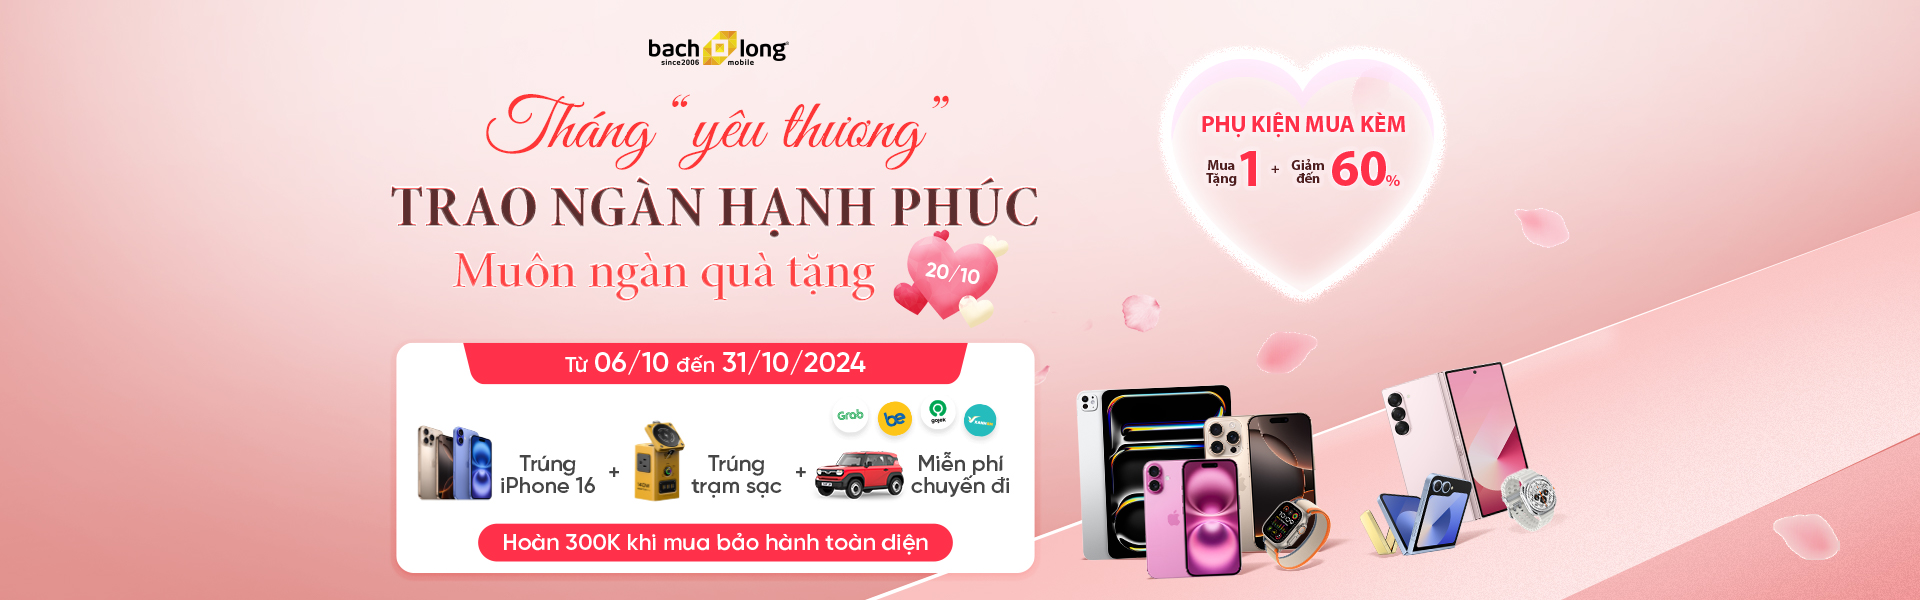
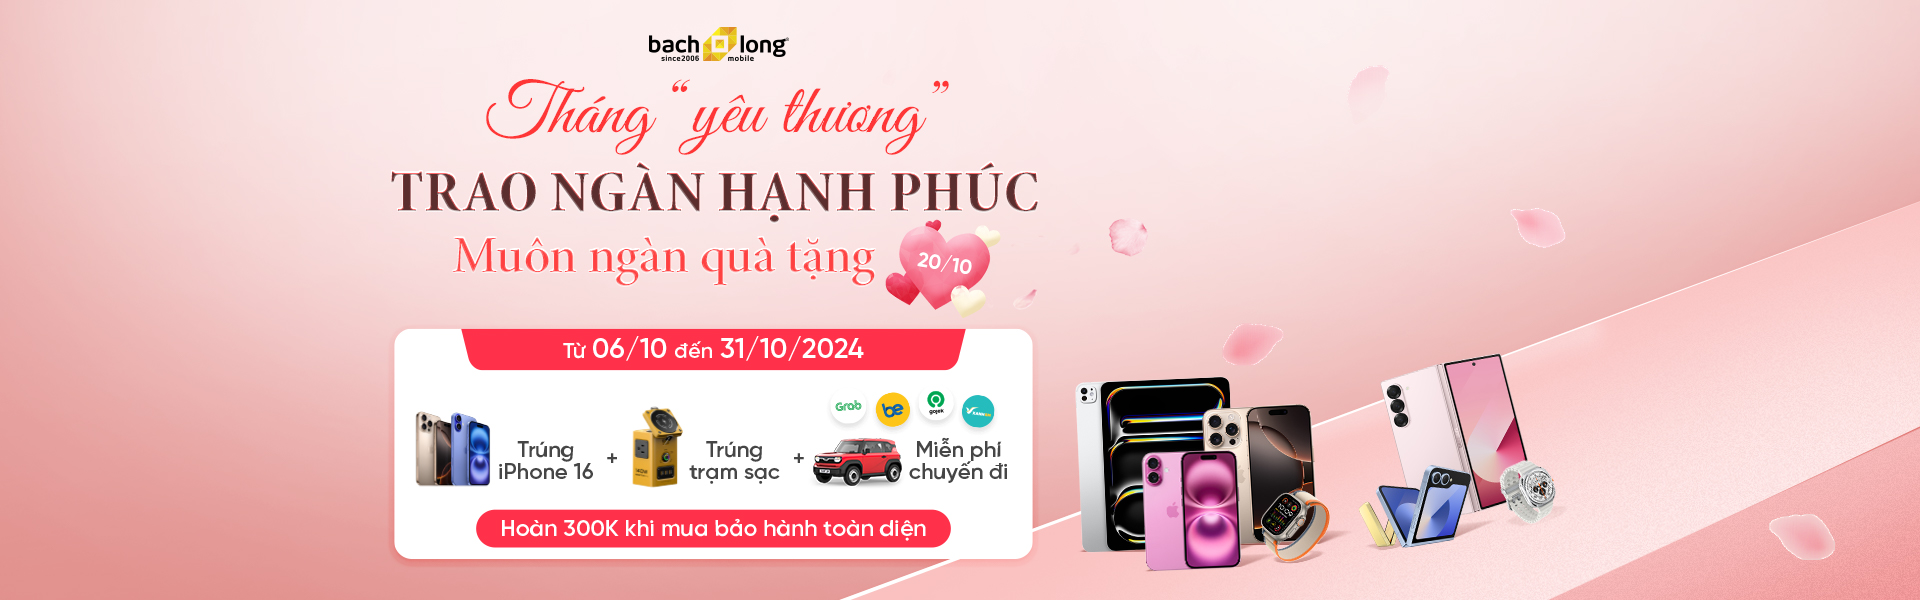
upload code

diff --git a/src/app/components/iPhone/banner/banner.scss b/src/app/components/iPhone/banner/banner.scss
@@ -3,92 +3,34 @@
 	width: 100%;
 	position: relative;
 	overflow: hidden;
+
 	&-content {
 		position: absolute;
-		bottom: 0%;
-		left: 60%;
-		transform: translate(-50%, -50%);
-		display: flex;
-		justify-content: center;
-		align-items: center;
-		gap: 3.2rem;
-		width: 100%;
-		@media screen and (max-width: 1200px) {
-			gap: 2.4rem;
-		}
-		@media screen and (max-width: 768px) {
-			gap: 1.2rem;
-			left: 50%;
-		}
-		&-item {
-			position: relative;
-			transition: all 0.3s ease-in-out;
-			cursor: pointer;
-			height: 8rem;
-
-			@media screen and (max-width: 1200px) {
-				height: 6rem;
-			}
-
-			@media screen and (max-width: 768px) {
-				height: 4rem;
-			}
-
-			@media screen and (max-width: 576px) {
-				height: 3rem;
-			}
-
-			&:hover {
-				transform: scale(1.1);
-
-				&::before {
-					content: '';
-					position: absolute;
-					top: 50%;
-					left: 50%;
-					width: 120%;
-					height: 120%;
-					background-color: #ec868a;
-					border-radius: 2rem;
-					transform: translate(-50%, -50%);
-					z-index: -1;
-					animation: ripple 2s infinite;
-				}
-			}
-		}
-	}
-	&-button-list {
-		display: flex;
-		justify-content: center;
-		align-items: center;
-		gap: 1.2rem;
-		position: relative;
-		padding: 1.2rem 0;
-		flex-wrap: wrap;
-		.banner-button-item {
-			padding: 1.2rem;
-			border-radius: 0.4rem;
-			color: #e72626;
-			font-size: 1.8rem;
-			font-weight: 700;
-			transition: all 0.3s ease-in-out;
-			background: #fff200;
-			&:hover {
-				background: #b3af6e;
-			}
+		top: 0%;
+		right: 20%;
+		transform: translate(-50%, 20%);
+		width: 15%;
+		img {
+			animation: heartBeat 1.8s infinite ease-in-out;
 		}
 	}
 }
 
-@keyframes ripple {
-	0% {
-		width: 120%;
-		height: 120%;
-		opacity: 1;
-	}
+@keyframes heartBeat {
+	0%,
 	100% {
-		width: 200%;
-		height: 200%;
-		opacity: 0;
+		transform: scale(1);
+	}
+	14% {
+		transform: scale(1.2);
+	}
+	28% {
+		transform: scale(1);
+	}
+	42% {
+		transform: scale(1.15);
+	}
+	70% {
+		transform: scale(1);
 	}
 }

diff --git a/src/app/components/iPhone/banner/index.tsx b/src/app/components/iPhone/banner/index.tsx
@@ -11,18 +11,8 @@ const Banner: React.FC = () => {
 	return (
 		<div className='banner'>
 			<Image src='/apple/banner-apple.jpg' alt='banner' width={1820} height={1400} />
-			<div className='container'>
-				{/* <div className='banner-content'>
-					<div className='banner-content-item'>
-						<Image src='/apple/banner-item-01.webp' alt='banner-item-01' width={500} height={400} />
-					</div>
-					<div className='banner-content-item'>
-						<Image src='/apple/banner-item-02.webp' alt='banner-item-02' width={500} height={400} />
-					</div>
-					<div className='banner-content-item'>
-						<Image src='/apple/banner-item-03.webp' alt='banner-item-03' width={500} height={400} />
-					</div>
-				</div> */}
+			<div className='banner-content'>
+				<Image src='/apple/heart.png' alt='heart' width={1200} height={900} />
 			</div>
 		</div>
 	);

diff --git a/src/app/components/iPhone/promotion/promotion.scss b/src/app/components/iPhone/promotion/promotion.scss
@@ -7,12 +7,13 @@
 	&-header {
 		text-align: center;
 		font-size: 3.2rem;
-		color: #ffff;
+		color: #333;
 		text-transform: uppercase;
 		font-weight: 600;
 		margin-bottom: 3.2rem;
 		@media screen and (max-width: 1200px) {
 			margin-bottom: 1.8rem;
+			font-size: 2rem;
 		}
 	}
 
@@ -133,12 +134,6 @@
 			video {
 				width: 100%;
 			}
-		}
-	}
-
-	@media (max-width: 768px) {
-		&-header {
-			font-size: 2.4rem;
 		}
 	}
 

diff --git a/src/app/components/iPhone/product-ipad/product-ipad.scss b/src/app/components/iPhone/product-ipad/product-ipad.scss
@@ -43,6 +43,7 @@
 				justify-content: space-between;
 				cursor: pointer;
 				overflow: hidden;
+				box-shadow: rgba(0, 0, 0, 0.16) 0px 1px 4px;
 				position: relative;
 				/* Đảm bảo tất cả các item có chiều cao bằng nhau */
 				flex-grow: 1;

diff --git a/src/app/components/iPhone/product/product.scss b/src/app/components/iPhone/product/product.scss
@@ -48,6 +48,7 @@
 				justify-content: space-between;
 				cursor: pointer;
 				overflow: hidden;
+				box-shadow: rgba(0, 0, 0, 0.16) 0px 1px 4px;
 				position: relative;
 				/* Đảm bảo tất cả các item có chiều cao bằng nhau */
 				flex-grow: 1;

diff --git a/src/app/components/iPhone/product-access/product-access.scss b/src/app/components/iPhone/product-access/product-access.scss
@@ -30,6 +30,8 @@
 				justify-content: space-between;
 				cursor: pointer;
 				overflow: hidden;
+				box-shadow: rgba(0, 0, 0, 0.16) 0px 1px 4px;
+				box-shadow: rgba(0, 0, 0, 0.16) 0px 1px 4px;
 
 				&-img {
 					flex-grow: 1;

diff --git a/src/app/components/iPhone/product-mac/product-mac.scss b/src/app/components/iPhone/product-mac/product-mac.scss
@@ -30,6 +30,7 @@
 				justify-content: space-between;
 				cursor: pointer;
 				overflow: hidden;
+				box-shadow: rgba(0, 0, 0, 0.16) 0px 1px 4px;
 
 				&-img {
 					flex-grow: 1;

diff --git a/src/app/components/iPhone/product-watch/product-watch.scss b/src/app/components/iPhone/product-watch/product-watch.scss
@@ -30,6 +30,7 @@
 				justify-content: space-between;
 				cursor: pointer;
 				overflow: hidden;
+				box-shadow: rgba(0, 0, 0, 0.16) 0px 1px 4px;
 
 				&-img {
 					flex-grow: 1;

diff --git a/src/app/apple/apple.scss b/src/app/apple/apple.scss
@@ -1,6 +1,6 @@
 $primary: #fad200;
 $secondary: #fdea8a;
-$background: #f3ada8;
+$background: #faf6f6;
 
 .apple {
 	background: $background;
